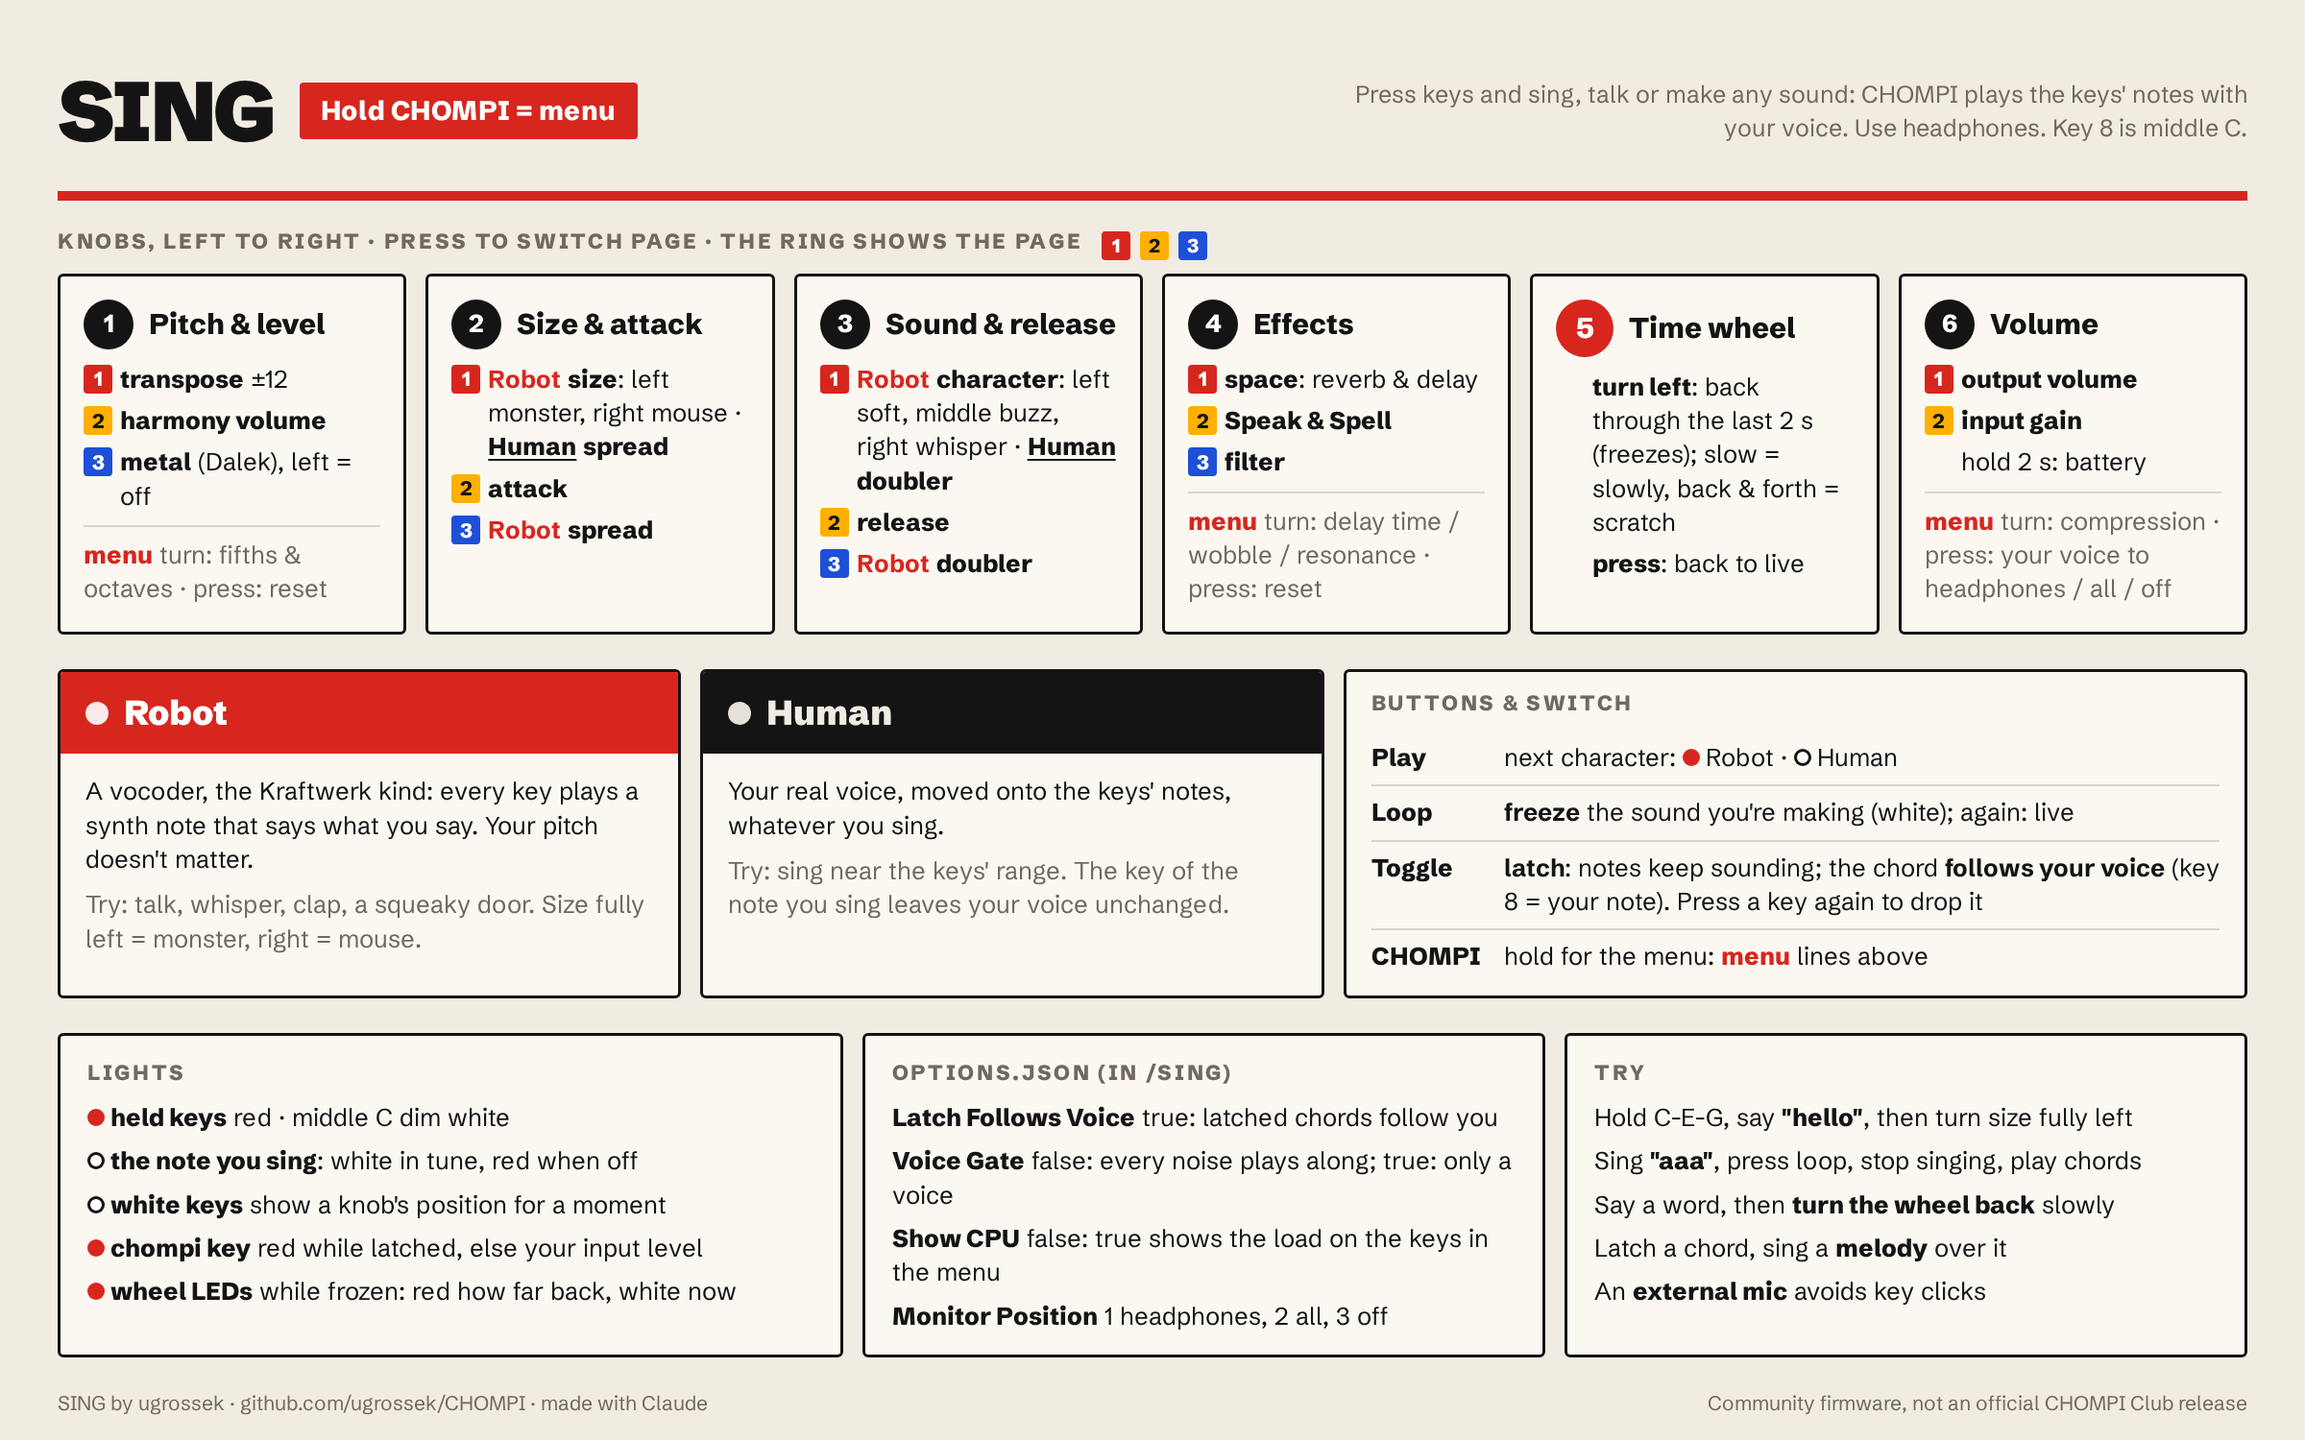
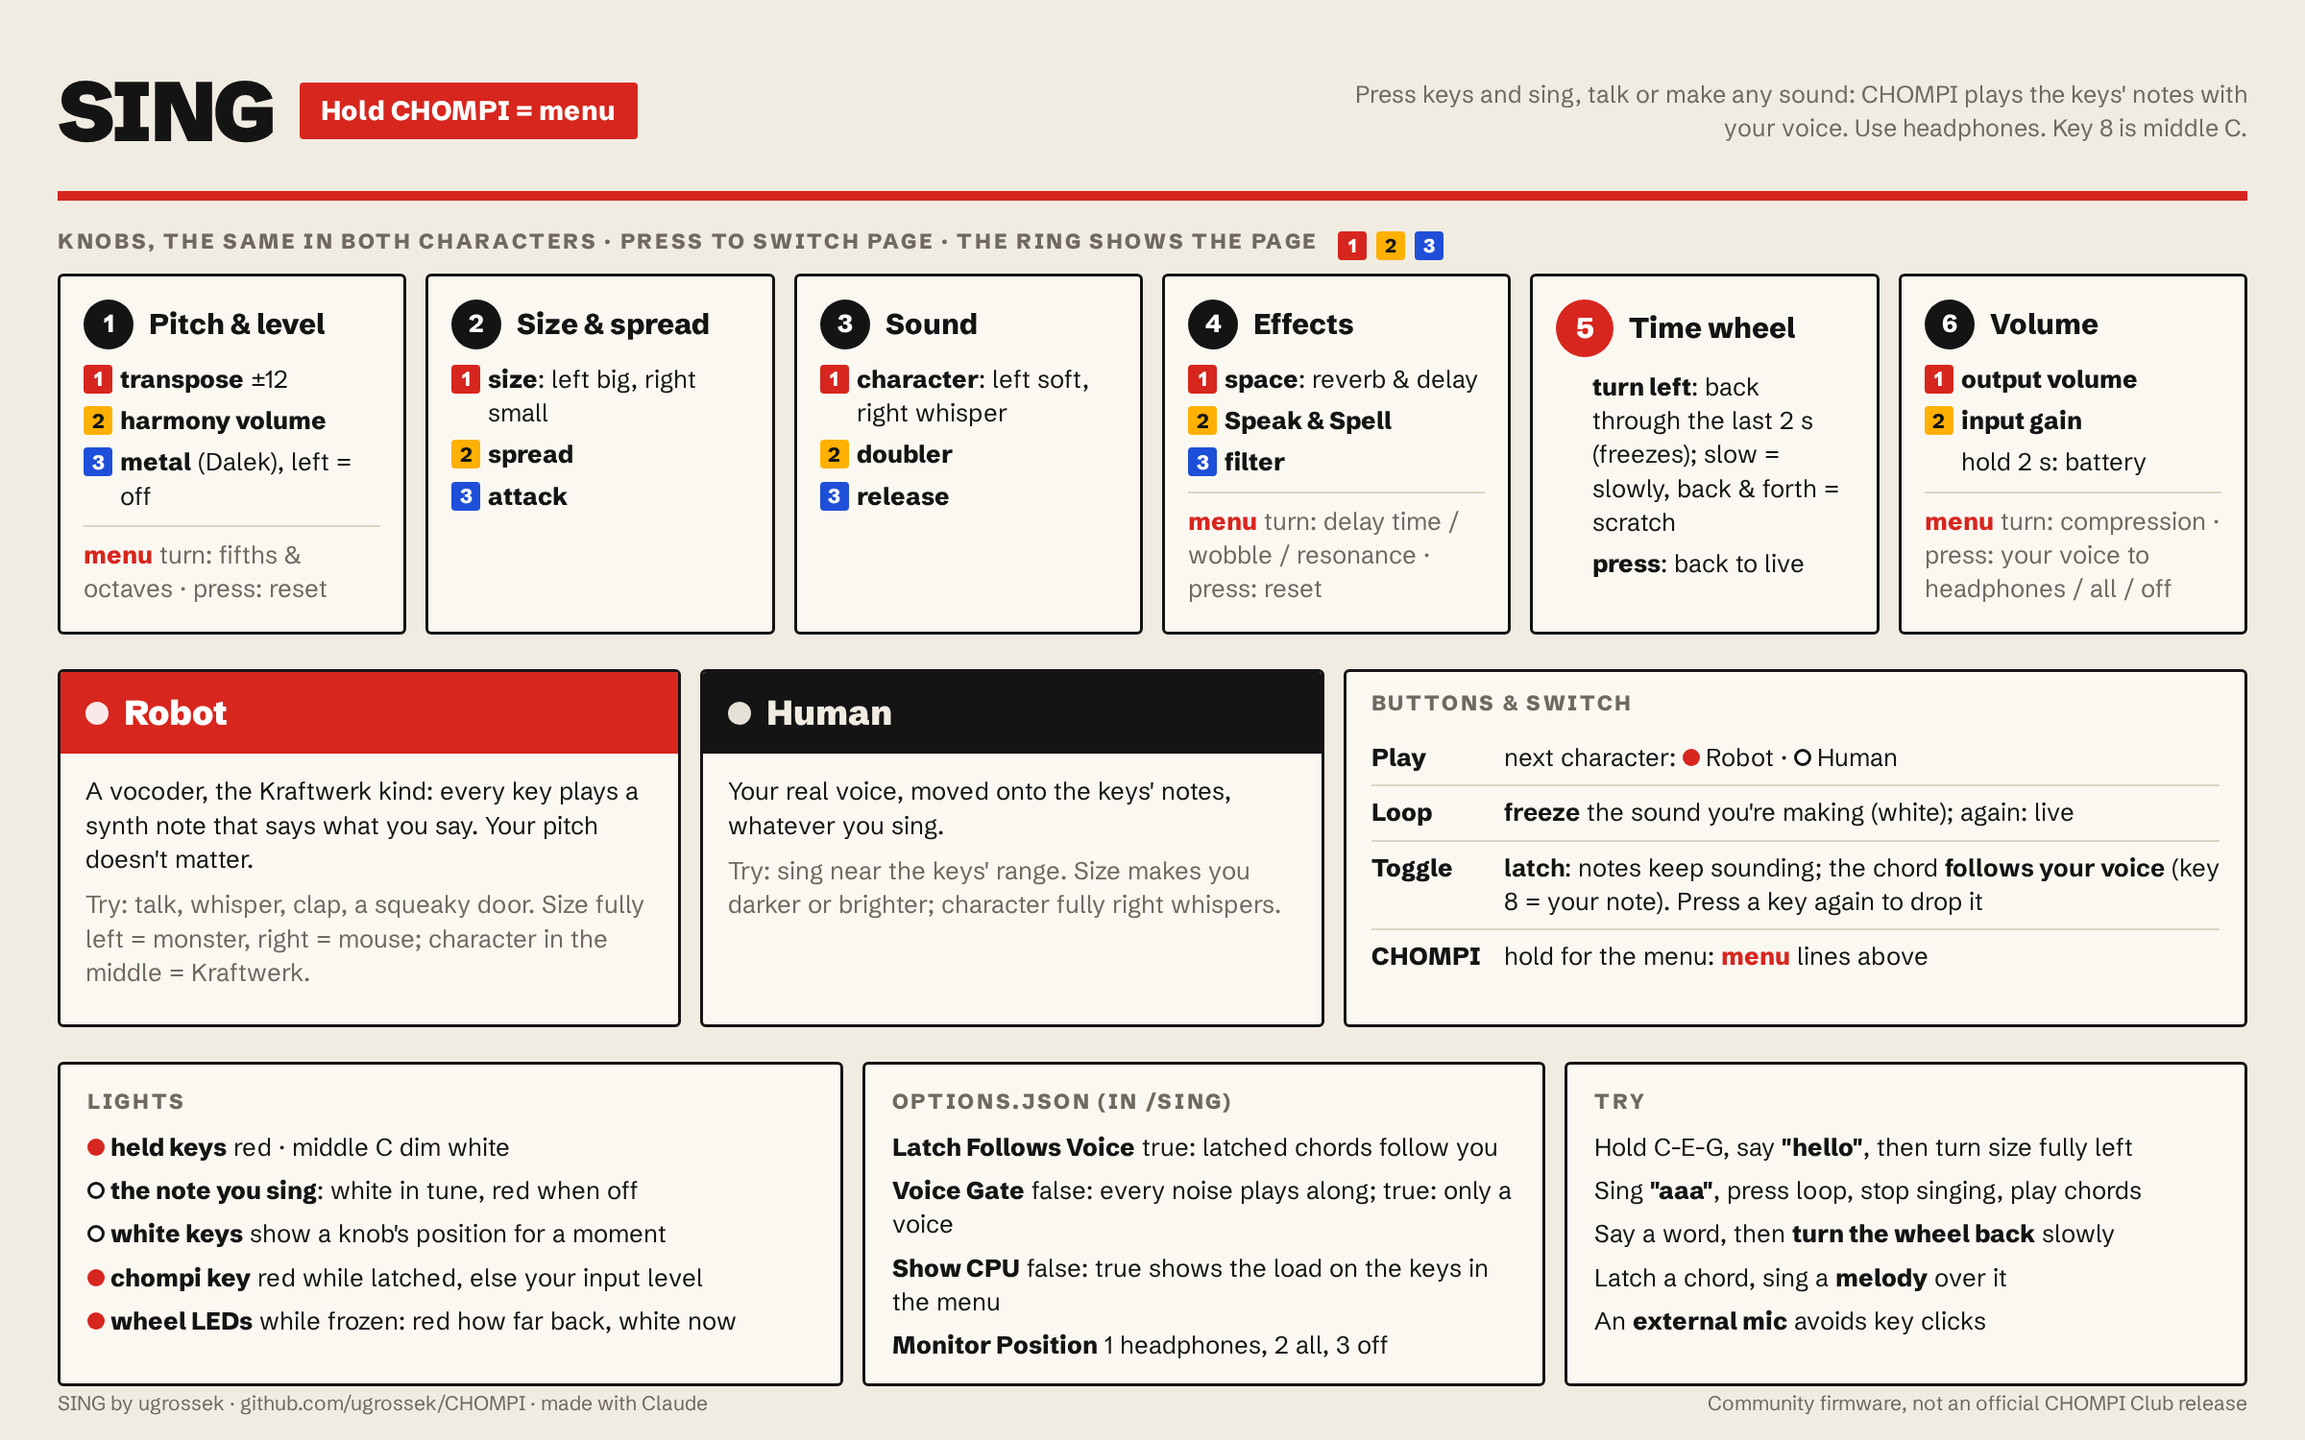
SING: the same knobs in both characters; Human gets size and character
- Knobs 2 and 3 have the same three pages in Robot and Human, latched or
  not: size / character, spread / doubler, attack / release. Page 2 of
  knobs 1-3 is the ensemble (harmony volume, spread, doubler), page 3 the
  shape (metal, attack, release).
- Human's size tilts the tone (split at ~1 kHz): left darker and fuller,
  right brighter and thinner. Human's character softens to the left (a
  lowpass from 12 kHz down to 800 Hz) and turns into a whisper to the
  right: the vocoder on noise for the held keys, blended in. The vocoder
  only runs in Human while character is right of centre.
- Cheat sheet, README and release notes draft match.

Claude-Session: https://claude.ai/code/session_01874WzKbEgcN1VoWn2vqLJT

diff --git a/firmware/chompi-sing/docs/cheatsheet.html b/firmware/chompi-sing/docs/cheatsheet.html
@@ -107,7 +107,7 @@
     <p class="tag">Press keys and sing, talk or make any sound: CHOMPI plays the keys' notes with your voice. Use headphones. Key 8 is middle C.</p>
   </header>
 
-  <h2>KNOBS, LEFT TO RIGHT · PRESS TO SWITCH PAGE · THE RING SHOWS THE PAGE<span class="legend"><span style="background:var(--coral)">1</span><span style="background:var(--yellow);color:var(--ink)">2</span><span style="background:var(--blue)">3</span></span></h2>
+  <h2>KNOBS, THE SAME IN BOTH CHARACTERS · PRESS TO SWITCH PAGE · THE RING SHOWS THE PAGE<span class="legend"><span style="background:var(--coral)">1</span><span style="background:var(--yellow);color:var(--ink)">2</span><span style="background:var(--blue)">3</span></span></h2>
   <section class="knobs">
     <div class="card knob">
       <div class="top"><span class="num">1</span><span class="name">Pitch &amp; level</span></div>
@@ -119,19 +119,19 @@
       <div class="menu-line"><span class="m">menu</span> turn: fifths &amp; octaves · press: reset</div>
     </div>
     <div class="card knob">
-      <div class="top"><span class="num">2</span><span class="name">Size &amp; attack</span></div>
+      <div class="top"><span class="num">2</span><span class="name">Size &amp; spread</span></div>
       <ul class="pages">
-        <li><span class="p">1</span><span><span class="r">Robot</span> <b>size</b>: left monster, right mouse · <span class="h">Human</span> <b>spread</b></span></li>
-        <li><span class="p">2</span><span><b>attack</b></span></li>
-        <li><span class="p">3</span><span><span class="r">Robot</span> <b>spread</b></span></li>
+        <li><span class="p">1</span><span><b>size</b>: left big, right small</span></li>
+        <li><span class="p">2</span><span><b>spread</b></span></li>
+        <li><span class="p">3</span><span><b>attack</b></span></li>
       </ul>
     </div>
     <div class="card knob">
-      <div class="top"><span class="num">3</span><span class="name">Sound &amp; release</span></div>
+      <div class="top"><span class="num">3</span><span class="name">Sound</span></div>
       <ul class="pages">
-        <li><span class="p">1</span><span><span class="r">Robot</span> <b>character</b>: left soft, middle buzz, right whisper · <span class="h">Human</span> <b>doubler</b></span></li>
-        <li><span class="p">2</span><span><b>release</b></span></li>
-        <li><span class="p">3</span><span><span class="r">Robot</span> <b>doubler</b></span></li>
+        <li><span class="p">1</span><span><b>character</b>: left soft, right whisper</span></li>
+        <li><span class="p">2</span><span><b>doubler</b></span></li>
+        <li><span class="p">3</span><span><b>release</b></span></li>
       </ul>
     </div>
     <div class="card knob">
@@ -166,14 +166,14 @@
       <div class="head"><span class="dot"></span>Robot</div>
       <div class="body">
         <p>A vocoder, the Kraftwerk kind: every key plays a synth note that says what you say. Your pitch doesn't matter.</p>
-        <p class="try">Try: talk, whisper, clap, a squeaky door. Size fully left = monster, right = mouse.</p>
+        <p class="try">Try: talk, whisper, clap, a squeaky door. Size fully left = monster, right = mouse; character in the middle = Kraftwerk.</p>
       </div>
     </div>
     <div class="card char human">
       <div class="head"><span class="dot"></span>Human</div>
       <div class="body">
         <p>Your real voice, moved onto the keys' notes, whatever you sing.</p>
-        <p class="try">Try: sing near the keys' range. The key of the note you sing leaves your voice unchanged.</p>
+        <p class="try">Try: sing near the keys' range. Size makes you darker or brighter; character fully right whispers.</p>
       </div>
     </div>
     <div class="card buttons">

diff --git a/firmware/chompi-sing/code/src/Harmonizer.h b/firmware/chompi-sing/code/src/Harmonizer.h
@@ -396,17 +396,24 @@ namespace chompi
             }
             else
                 vfreeze_.Record(in_, size, rec_note_);
+            in_now_ = in_;
 
             float hl[size], hr[size];
             for (size_t i = 0; i < size; i++)
                 hl[i] = hr[i] = 0.f;
 
-            /* robot: the voices build the vocoder's carriers instead */
-            const bool robot = Vocoded();
-            float car_l[size], car_r[size];
+            /* robot: the voices build the vocoder's carriers instead; Human
+               with character right of centre also uses the vocoder, on
+               noise, for the whisper (wsum: the held voices' weights) */
+            const bool robot   = Vocoded();
+            const float whisper = !robot && character_ > .51f ? (character_ - .5f) * 2.f : 0.f;
+            float car_l[size], car_r[size], wsum_l[size], wsum_r[size];
             if (robot)
                 for (size_t i = 0; i < size; i++)
                     car_l[i] = car_r[i] = 0.f;
+            if (whisper > 0.f)
+                for (size_t i = 0; i < size; i++)
+                    wsum_l[i] = wsum_r[i] = 0.f;
 
             for (size_t v = 0; v < kVoices; v++)
             {
@@ -461,6 +468,11 @@ namespace chompi
                     vo.shifter.Process(vo.ratio, &l, &r);
                     hl[i] += l * vo.env * gl;
                     hr[i] += r * vo.env * gr;
+                    if (whisper > 0.f)
+                    {
+                        wsum_l[i] += vo.env * gl;
+                        wsum_r[i] += vo.env * gr;
+                    }
                 }
                 if (!vo.gate && vo.env <= 0.f)
                     vo.key = -1;
@@ -469,6 +481,8 @@ namespace chompi
             if (robot)
                 vocoder_.Process(in_, car_l, car_r, hl, hr, size,
                                  spread_ > 0.f, Active());
+            else
+                HumanCharacter(hl, hr, car_l, car_r, wsum_l, wsum_r, whisper, size);
 
             /* ring modulator: the harmonies times a sine */
             if (ring_mix_ > 0.f)
@@ -621,6 +635,63 @@ namespace chompi
         static constexpr float kDuckFloor = .03f;  /* -30 dB while a key clicks */
 
         Voice            voices_[kVoices];
+        /** Human's size and character (the robot's are in the vocoder):
+         *  character left of centre softens (a lowpass, 12 kHz down to
+         *  800 Hz); right of centre blends in a whisper, the vocoder on
+         *  noise for the held keys; size tilts the tone, left darker and
+         *  fuller (bigger), right brighter and thinner (smaller). */
+        void HumanCharacter(float *hl, float *hr, float *car_l, float *car_r,
+                            const float *wsum_l, const float *wsum_r, float whisper, size_t size)
+        {
+            if (character_ < .49f)
+            {
+                const float fc   = 800.f * powf(15.f, character_ * 2.f);
+                const float coef = 1.f - expf(-6.2831853f * fc / sr_);
+                for (size_t i = 0; i < size; i++)
+                {
+                    soft_l_ += coef * (hl[i] - soft_l_);
+                    soft_r_ += coef * (hr[i] - soft_r_);
+                    hl[i] = soft_l_;
+                    hr[i] = soft_r_;
+                }
+            }
+            else if (whisper > 0.f)
+            {
+                float wl[size], wr[size];
+                for (size_t i = 0; i < size; i++)
+                {
+                    const float n = Noise() * kVocodedLevel;
+                    car_l[i] = n * wsum_l[i];
+                    car_r[i] = n * wsum_r[i];
+                    wl[i] = wr[i] = 0.f;
+                }
+                vocoder_.Process(in_now_, car_l, car_r, wl, wr, size, spread_ > 0.f, true);
+                for (size_t i = 0; i < size; i++)
+                {
+                    hl[i] = hl[i] * (1.f - whisper) + wl[i] * whisper;
+                    hr[i] = hr[i] * (1.f - whisper) + wr[i] * whisper;
+                }
+            }
+
+            const float t = (.5f - size_) * 2.f; // + bigger, - smaller
+            if (fabsf(t) > .01f)
+            {
+                const float lo = 1.f + .7f * t, hi = 1.f - .7f * t;
+                const float norm = 1.f / (1.f + .25f * fabsf(t));
+                for (size_t i = 0; i < size; i++)
+                {
+                    tilt_l_ += kTiltCoef * (hl[i] - tilt_l_);
+                    tilt_r_ += kTiltCoef * (hr[i] - tilt_r_);
+                    hl[i] = (tilt_l_ * lo + (hl[i] - tilt_l_) * hi) * norm;
+                    hr[i] = (tilt_r_ * lo + (hr[i] - tilt_r_) * hi) * norm;
+                }
+            }
+        }
+
+        static constexpr float kTiltCoef = .123f; // one pole, ~1 kHz at 48 kHz
+        float soft_l_ = 0.f, soft_r_ = 0.f, tilt_l_ = 0.f, tilt_r_ = 0.f;
+        const float *in_now_ = nullptr; // this block's voice, for the whisper
+
         /** white noise, -1..1 (xorshift) */
         float Noise()
         {

diff --git a/firmware/chompi-sing/code/src/NormalPage.h b/firmware/chompi-sing/code/src/NormalPage.h
@@ -199,10 +199,9 @@ namespace chompi
          *    knob 1: transpose (row 0) | harmony volume (row 1) | metal (row 2)
          *    knob 2: spread (row 0)    | attack (row 1)  | size (row 2)
          *    knob 3: doubler (row 0)   | release (row 1) | character (row 2)
-         *  Robot mode shows knobs 2 and 3 as size/character, attack/release,
-         *  spread/doubler (three pages); the other modes as spread/doubler,
-         *  attack/release. The defaults in ui.h and Harmonizer::Init must
-         *  match. */
+         *  Knobs 2 and 3 show size/character, spread/doubler, attack/release
+         *  (three pages) in both characters. The defaults in ui.h and
+         *  Harmonizer::Init must match. */
         void SingKnob(int knob, int row, float v)
         {
             switch(knob * 3 + row)
@@ -220,20 +219,24 @@ namespace chompi
             }
         }
 
-        /** the row of enc_values that knob's page shows */
+        /** the row of enc_values that knob's page shows: knobs 2 and 3 show
+         *  size/character, spread/doubler, attack/release, the same in both
+         *  characters and with or without latch. Page 2 of knobs 1-3 is then
+         *  the ensemble (harmony volume, spread, doubler), page 3 the shape
+         *  (metal, attack, release). */
         uint8_t Row(int knob, uint8_t page) const
         {
-            if ((knob == 1 || knob == 2) && fx_->RobotMode())
+            if (knob == 1 || knob == 2)
             {
-                static const uint8_t kRobotRows[3] = {2, 1, 0};
-                return kRobotRows[page % 3];
+                static const uint8_t kRows[3] = {2, 0, 1};
+                return kRows[page % 3];
             }
             return page;
         }
 
         uint8_t Pages(int knob) const
         {
-            return (knob == 1 || knob == 2) && fx_->RobotMode() ? 3 : knob_num_pages[knob];
+            return knob == 1 || knob == 2 ? 3 : knob_num_pages[knob];
         }
 
         /** white key 0..14 left to right for a MIDI note of the keyboard

diff --git a/firmware/chompi-sing/README.md b/firmware/chompi-sing/README.md
@@ -44,14 +44,23 @@ Press a knob to switch its page.
 | Knob | Page 1 | Page 2 | Page 3 |
 |---|---|---|---|
 | **1** | **transpose**, ±12 semitones, continuous | **harmony volume** | **metal**: ring modulator (Dalek), off fully left |
-| **2** | Robot: **size**, monster ← → mouse · Human: **spread** | **attack** | Robot: **spread** |
-| **3** | Robot: **character**, soft ← buzz → whisper · Human: **doubler** | **release** | Robot: **doubler** |
+| **2** | **size**: left big, right small | **spread** | **attack** |
+| **3** | **character**: left soft, right whisper | **doubler** | **release** |
 | **4** | **space**: reverb and delay | **Speak & Spell**: fewer samples and bits | **filter** |
 | **5** | the big wheel: time wheel, above | | |
 | **6** | **output volume** | **input gain** | |
 
-Size and character start in the middle, the classic robot. Spread places the voices left and
-right; doubler thickens them with a chorus. Hold knob 6 for two seconds to see the battery.
+The knobs are the same in both characters, latched or not. Page 2 is the ensemble (harmony
+volume, spread, doubler), page 3 the shape (metal, attack, release). Size and character start in
+the middle:
+
+- **Size:** Robot moves its mouth (formants), from monster to mouse. Human tilts the tone,
+  darker and fuller to the left, brighter and thinner to the right.
+- **Character:** Robot's synth goes from a soft sine through the Kraftwerk buzz to noise. Human
+  gets softer to the left and turns into a whisper to the right (the vocoder on noise).
+
+Spread places the voices left and right; doubler thickens them with a chorus. Hold knob 6 for
+two seconds to see the battery.
 
 ## Menu (hold the chompi key)
 

diff --git a/firmware/chompi-sing/docs/release-notes-sing2.md b/firmware/chompi-sing/docs/release-notes-sing2.md
@@ -11,7 +11,7 @@ SING turns CHOMPI into an instrument led by your voice. Press keys and sing, tal
 - **Freeze on the loop button:** hold the sound you're making and keep playing chords with it.
 - **Time wheel on the big wheel:** go back through the last 2 seconds, slowly or scratching.
 - **Latch follows your voice:** latch a chord and sing a melody, the chord moves with you.
-- **Robot size and character** on knobs 2 and 3: monster to mouse, soft to whisper.
+- **Size and character** on knobs 2 and 3, in both characters: big to small, soft to whisper. The knobs work the same everywhere.
 - **Metal** (ring modulator, knob 1 page 3) and **Speak & Spell** (knob 4 page 2).
 - **A tuner on the keys:** the note you sing lights up.
 - **Lights in red and warm white** (after Kraftwerk's *Die Mensch-Maschine*); the knob rings show the page: 1 red, 2 yellow, 3 blue.
